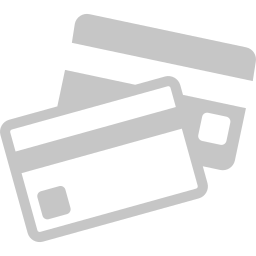
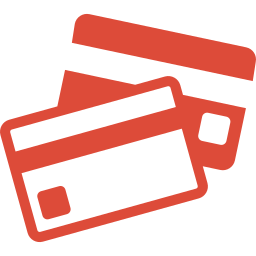
improve interfaces and add logic validations

diff --git a/react/index.js b/react/index.js
@@ -5,16 +5,20 @@ import { config } from './config/configScalapay'
 import {
   hourglass,
   creditcard,
-  creditcarderror,
   interfacevtex,
+  interfaceblock,
   numberoneanimated,
   numbertwoanimated,
   numberthreeanimated,
   number2,
   number3,
-  check,
+  checksucess,
   info,
   cancel,
+  numberblock,
+  retry,
+  creditcarderror,
+  interfaceerror
 } from './config/importsAssets'
 import { createOrder, captureOrder } from './services/connector'
 
@@ -22,8 +26,16 @@ class ModalScalapay extends Component {
   state = {
     changeImgOne: numberoneanimated,
     changeImgTwo: number2,
+    changeImgThree: number3,
     creditImg: creditcard,
     messageStep2: 'Make the payment in the new Scalapay window',
+    messageStep3: 'You will be returning to the store. Verify the payment',
+    statusfailed: false,
+    colorFont: "black",
+    colorBlock: "black",
+    changeImgInterface: interfacevtex,
+    statusFailed2: false,
+    statusFailed3: false
   }
   childWindow = null
   intervalId = null
@@ -33,22 +45,19 @@ class ModalScalapay extends Component {
     window.addEventListener('message', this.handleMessages, false)
 
     const orderForm = vtexjs.checkout.orderForm
-    console.log('----> ', orderForm)
     // const urlRedirect = configScalapay.redirectConfirmUrl + orderForm.orderGroup
 
-    bodyScalapay.merchant.redirectConfirmUrl = config.redirectUrl
-    bodyScalapay.merchant.redirectCancelUrl = config.redirectUrl
+    bodyScalapay.merchant.redirectConfirmUrl = config.redirectUrl()
+    bodyScalapay.merchant.redirectCancelUrl = config.redirectUrl()
 
     //this.fillBody(urlRedirect, orderForm)
     createOrder(bodyScalapay).then((response) => {
       if (response.token) {
-        this.setState({ changeImgOne: check, changeImgTwo: numbertwoanimated })
-        this.backdrop()
+        this.setState({ changeImgOne: checksucess, changeImgTwo: numbertwoanimated })
 
         this.childWindow = window.open(
           response.checkoutUrl,
-          '',
-          'toolbar=no,menubar=no,width=600,height=700'
+          '_blank'
         )
 
         this.intervalId = setInterval(childWindowIsClosed.bind(this), 1000)
@@ -59,11 +68,6 @@ class ModalScalapay extends Component {
             this.handleCloseChildWindow()
           }
         }
-        console.log(
-          'DESPUÉS de addEventListener ',
-          this.childWindow,
-          this.childWindow?.closed
-        )
       }
     })
   }
@@ -78,21 +82,31 @@ class ModalScalapay extends Component {
       e.data.source === 'scalapay-checkout' &&
       e.data.event === 'payment-result'
     ) {
+      const payload = e.data.payload
       this.childWindow.close()
-      this.backdrop(false)
-
-      // TODO: Iniciar loader
-      captureOrder(e.data.orderToken)
+      console.log("----------->>> ", e)
+      if (payload.status === 'SUCCESS'){
+        this.setState({
+          changeImgTwo: checksucess,
+          changeImgThree: numberthreeanimated,
+        })
+        captureOrder(payload.orderToken)
         .then((res) => {
           if (res.status === 'APPROVED') {
-            console.log('no fallo')
-          } else {
-            console.log('falloo')
             this.setState({
-              creditImg: creditcarderror,
-              messageStep2:
+              changeImgThree: checksucess,
+            })
+            //go to orderplace
+            this.respondTransaction(true)
+          } else {
+            //failed del paso 3
+            this.setState({
+              messageStep3:
                 'The payment process has been failed. Please, try another payment method',
-              changeImgTwo: cancel,
+              changeImgThree: cancel,
+              colorBlock: "#DD4B39",
+              changeImgInterface: interfaceerror,
+              statusFailed3: true
             })
           }
         })
@@ -103,6 +117,20 @@ class ModalScalapay extends Component {
         .finally(() => {
           // TODO: Parar loader
         })
+      }else{
+        this.setState({
+          creditImg: creditcarderror,
+          messageStep2:
+            'The payment process has been failed. Please, try another payment method',
+          changeImgTwo: cancel,
+          colorFont: "#DD4B39",
+          colorBlock: "#c6c6c6",
+          changeImgInterface: interfaceblock,
+          changeImgThree: numberblock,
+          statusFailed2: true,
+          statusFailed3: true
+        })
+      }
     }
   }
 
@@ -112,40 +140,8 @@ class ModalScalapay extends Component {
   }
 
   handleCloseChildWindow = () => {
-    console.log('Se cierra el checkout')
-    this.backdrop(false)
-
-    // FIXME: Revisar esto
-    this.setState({
-      creditImg: creditcarderror,
-      messageStep2:
-        'The payment process has been failed. Please, try another payment method',
-      changeImgTwo: cancel,
-    })
-  }
-
-  backdrop = (active = true) => {
-    const $div = $('#scalapay-background')
-
-    if (active && !$div.length) {
-      const el = document.createElement('div')
-
-      $(el)
-        .attr('id', 'scalapay-background')
-        .css({
-          'background-color': 'rgba(0,0,0,0.9)',
-          position: 'absolute',
-          width: '100%',
-          height: '100vh',
-          top: 0,
-          'z-index': '1000',
-        })
-        .appendTo($('body'))
-    }
-
-    if (!active && $div.length) {
-      $div.remove()
-    }
+    //this.setState({statusfailed: true})
+    console.log('Se cierra el checkout ', this.state.statusfailed)
   }
 
   fillBody = (url, order) => {
@@ -189,8 +185,6 @@ class ModalScalapay extends Component {
   }
 
   render() {
-    console.log('render: ', this.state)
-
     return (
       <div className={styles.wrapper}>
         <div id="newWindow" className=""></div>
@@ -205,7 +199,7 @@ class ModalScalapay extends Component {
                 className={styles.imgLoading}
                 alt="one"
               />
-              <div className={styles.verticalLine}></div>
+              <div className={styles.verticalLine} style={{borderColor: this.state.statusFailed2 ? "#DD4B39" : "#f9aac8"}}></div>
             </div>
             <div>
               <img
@@ -213,10 +207,10 @@ class ModalScalapay extends Component {
                 className={styles.imgLoading}
                 alt="two"
               />
-              <div className={styles.verticalLine}></div>
+              <div className={styles.verticalLine} style={{borderColor: this.state.statusFailed3 ? "#c6c6c6" : "#f9aac8"}}></div>
             </div>
             <div>
-              <img src={number3} className={styles.imgLoading} alt="three" />
+              <img src={this.state.changeImgThree} className={styles.imgLoading} alt="three" />
             </div>
           </div>
 
@@ -227,28 +221,26 @@ class ModalScalapay extends Component {
                 Wait while your payment is processing
               </p>
             </div>
-            {console.log(
-              '------- ',
-              this.state.creditImg,
-              ' messsa ',
-              this.state.messageStep2
-            )}
             <div className={styles.containerInfo}>
               <img
                 src={this.state.creditImg}
                 className={styles.imgInfo}
                 alt="loading"
               />
-              <p className={styles.textInfo}>{this.state.messageStep2}</p>
+              <p className={styles.textInfo} style={{color:this.state.colorFont}}>{this.state.messageStep2}</p>
+              {this.state.statusfailed ? <div>
+                <img src={retry} alt="retry"/>
+                <p>Try the payment process again</p>
+              </div> : <div />}
             </div>
             <div className={styles.containerInfo}>
               <img
-                src={interfacevtex}
+                src={this.state.changeImgInterface}
                 className={styles.imgInfo}
                 alt="loading"
               />
-              <p className={styles.textInfo}>
-                You will be returning to the store. Verify the payment
+              <p className={styles.textInfo} style={{color:this.state.colorBlock}}>
+                {this.state.messageStep3}
               </p>
             </div>
           </div>

diff --git a/react/config/importsAssets.js b/react/config/importsAssets.js
@@ -1,29 +1,39 @@
-import check from '../assets/img/check.png'
+import checksucess from '../assets/img/checksucess.png'
 import cancel from '../assets/img/cancel.png'
 import creditcard from '../assets/img/creditcard.png'
-import creditcarderror from '../assets/img/creditcarderror.png'
+import creditcardblock from '../assets/img/creditcardblock.png'
 import hourglass from '../assets/img/hourglass.png'
 import info from '../assets/img/info.png'
 import interfacevtex from '../assets/img/interfacevtex.png'
+import interfaceblock from '../assets/img/interfaceblock.png'
 import number1 from '../assets/img/number1.png'
 import number2 from '../assets/img/number2.png'
 import number3 from '../assets/img/number3.png'
+import numberblock from '../assets/img/numberblock.png'
 import numberoneanimated from '../assets/img/numberoneanimated.gif'
 import numberthreeanimated from '../assets/img/numberthreeanimated.gif'
 import numbertwoanimated from '../assets/img/numbertwoanimated.gif'
+import retry from '../assets/img/retry.png'
+import creditcarderror from '../assets/img/creditcarderror.png'
+import interfaceerror from '../assets/img/interfaceerror.png'
 
 export {
   hourglass,
   creditcard,
-  creditcarderror,
+  creditcardblock,
   interfacevtex,
+  interfaceblock,
   numberoneanimated,
   numbertwoanimated,
   numberthreeanimated,
   number1,
   number2,
   number3,
-  check,
+  numberblock,
   cancel,
   info,
+  checksucess,
+  retry,
+  creditcarderror,
+  interfaceerror
 }

diff --git a/react/config/configScalapay.js b/react/config/configScalapay.js
@@ -1,8 +1,10 @@
 const TEMP_URL_PROXY = 'https://cors-anywhere.herokuapp.com'
-
 export const config = {
   getUrl: (path) =>
     `${TEMP_URL_PROXY}/https://staging.api.scalapay.com/v2${path}`,
-  redirectUrl: 'https://scalapay--vtexeurope.myvtex.com/_v/scalapay-script',
+  redirectUrl: () => {
+    const host = window.location.host; 
+    return `https://${host}/_v/scalapay-script`
+  },
   token: 'qhtfs87hjnc12kkos',
 }

diff --git a/react/index.css b/react/index.css
@@ -77,7 +77,7 @@
 }
 
 .verticalLine {
-  border-left: 3px solid #f9aac8;
+  border-left: 3px solid;
   height: 80px;
   width: 10%;
   margin-left: 25px;
